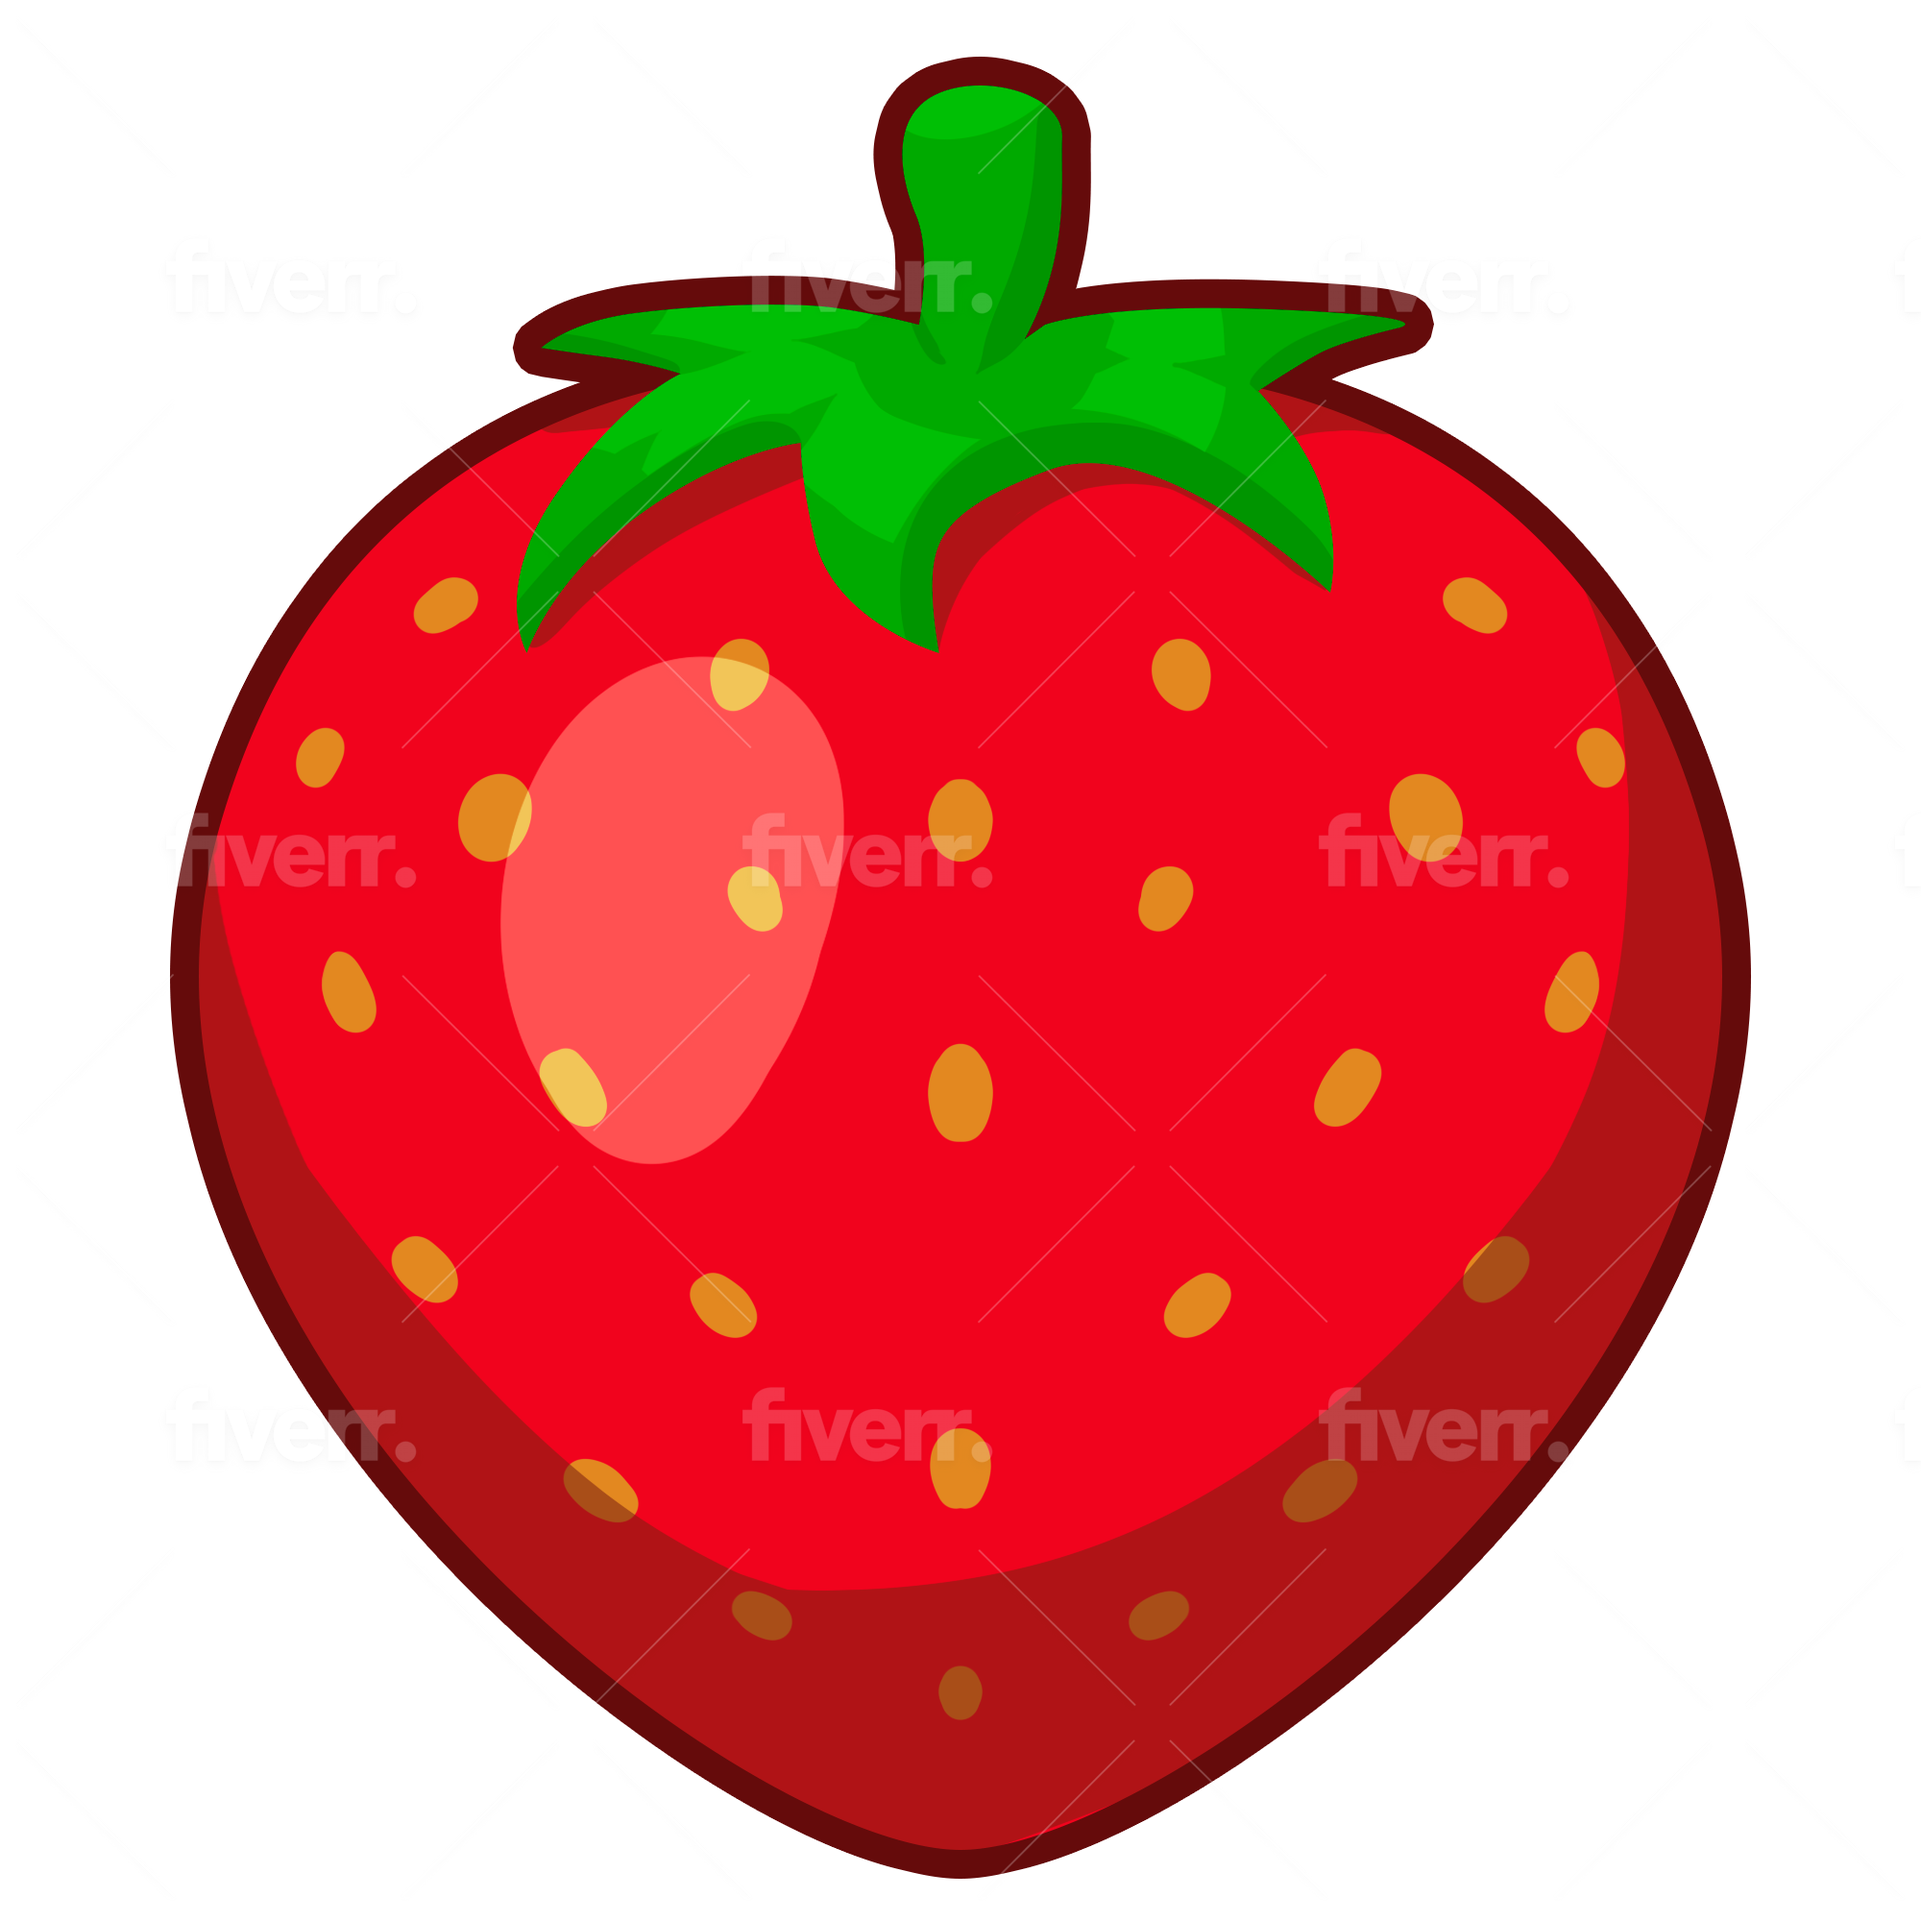
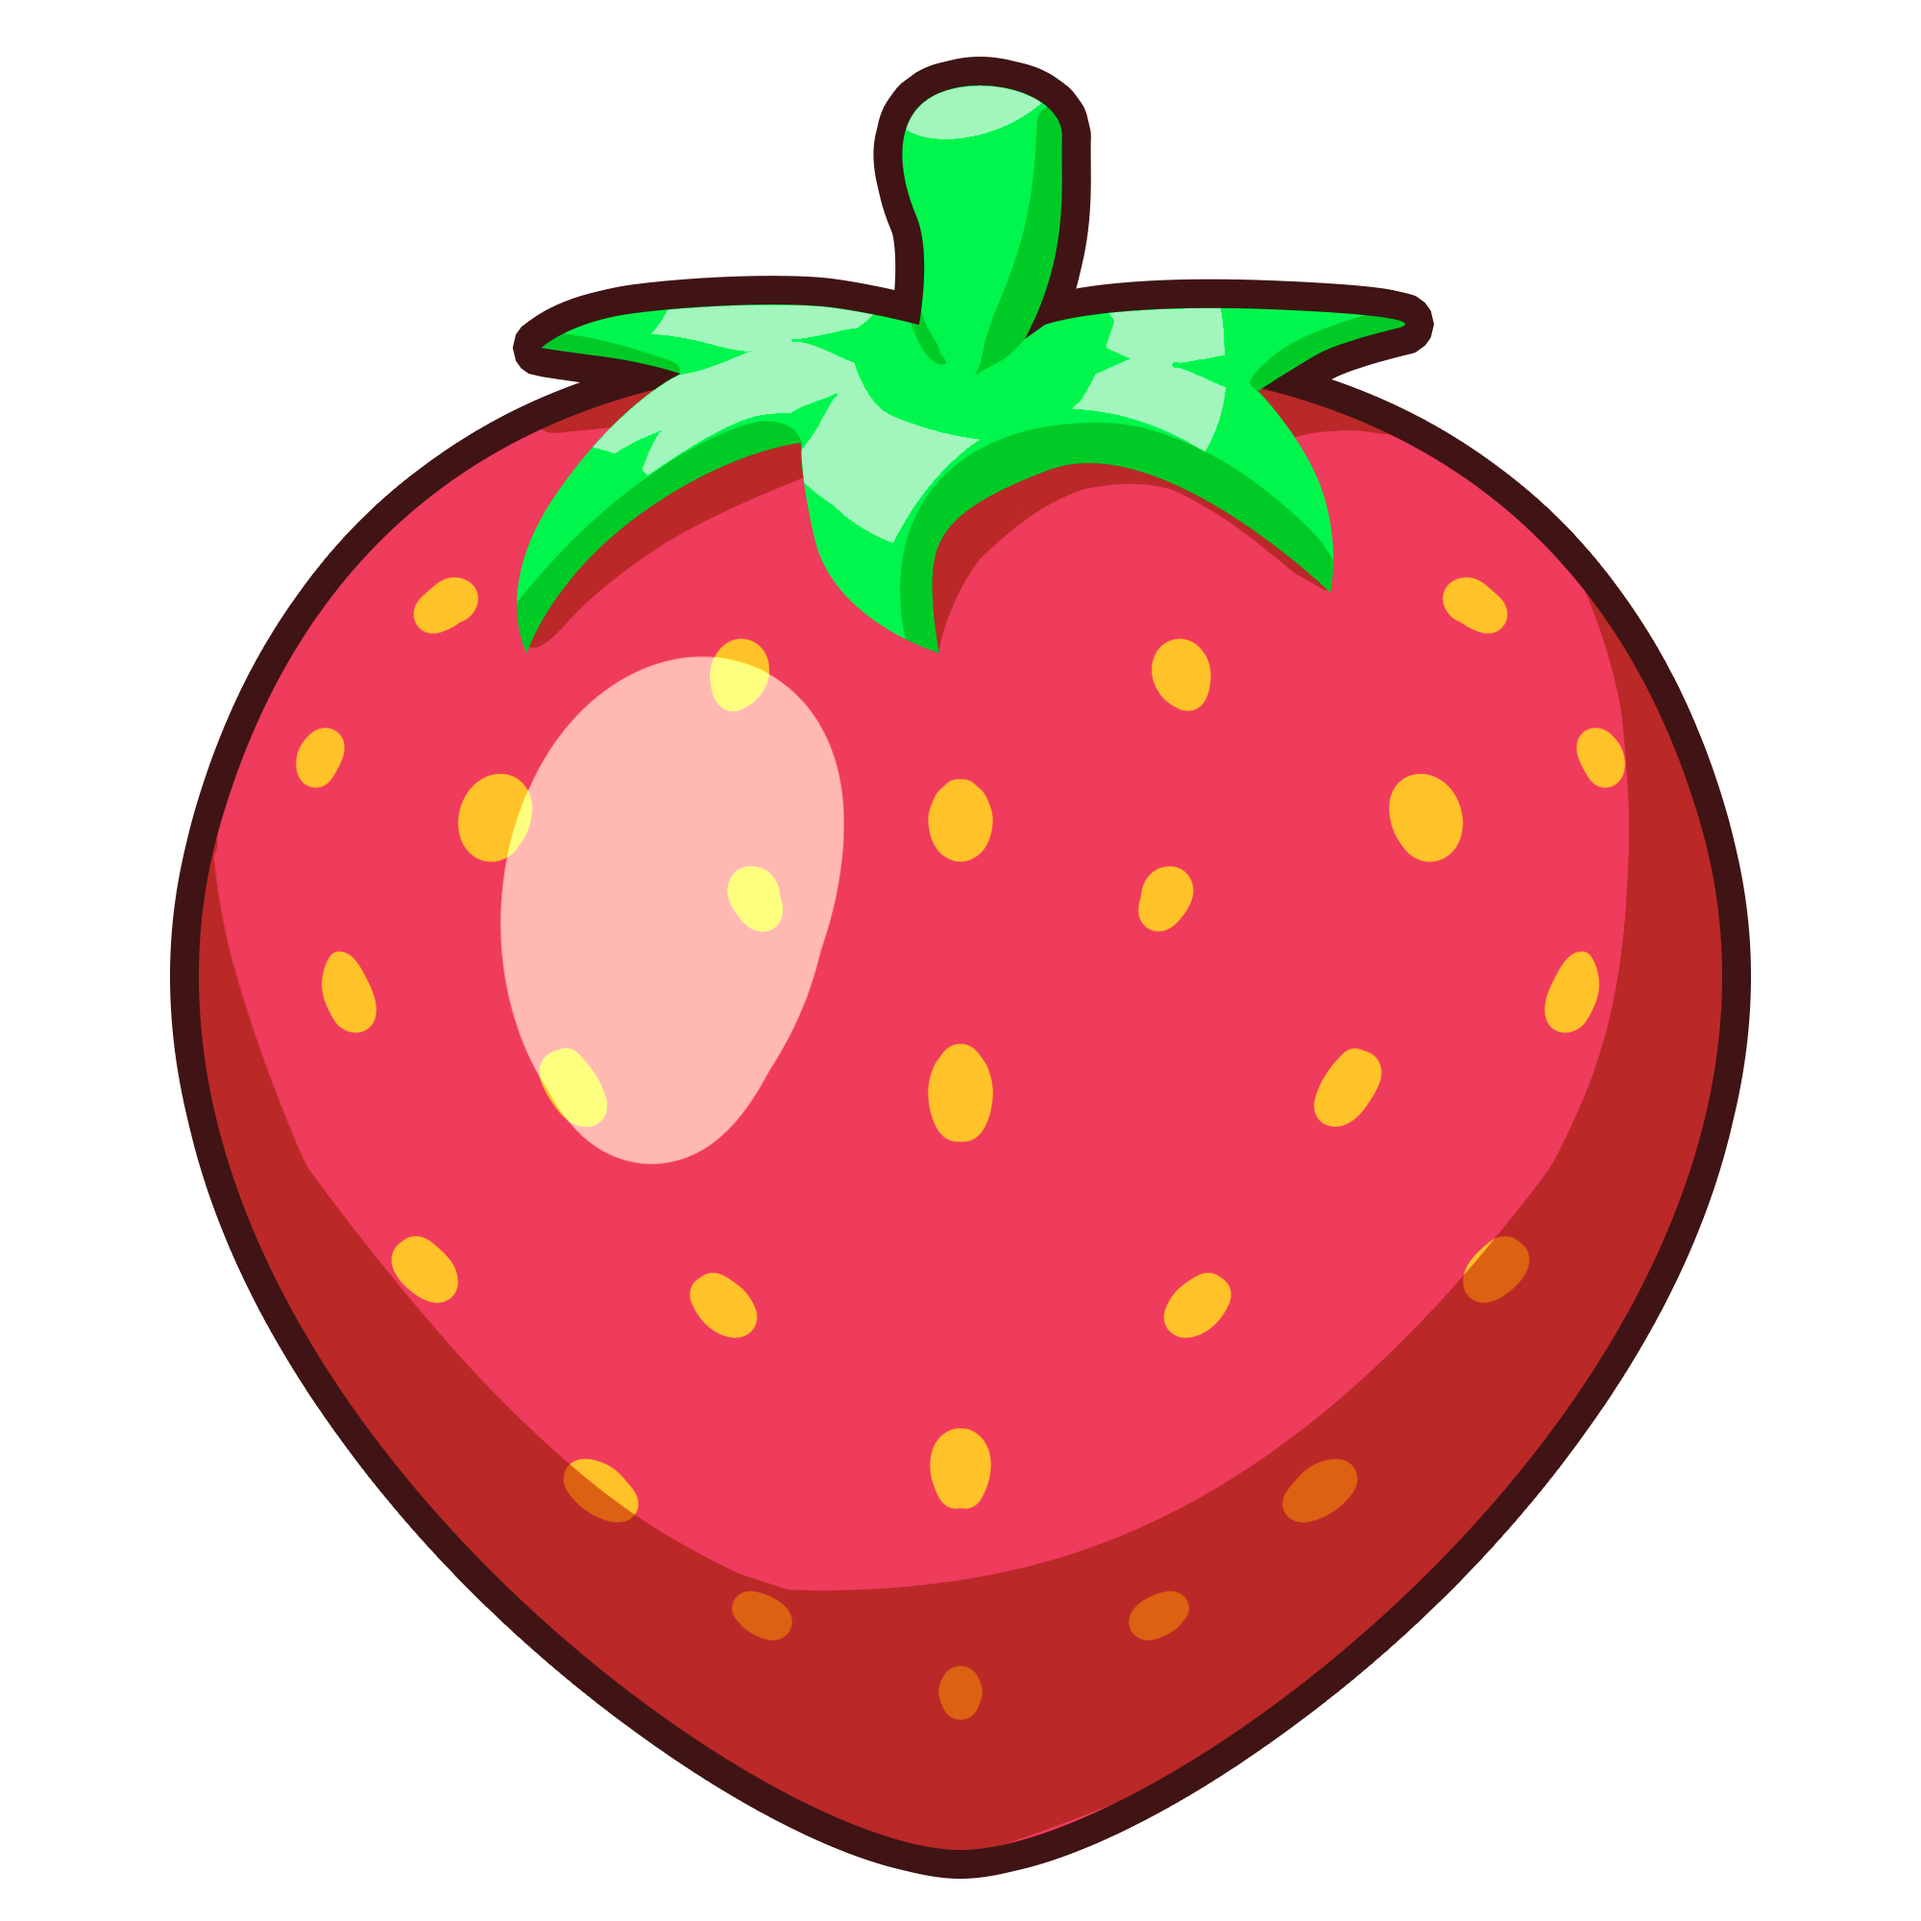
initial self-drawn sprites, refactoring, removed debug prints

diff --git a/lib/home_ui/home_page.dart b/lib/home_ui/home_page.dart
@@ -21,7 +21,7 @@ class HomePage extends StatefulWidget {
 class _HomePageState extends State<HomePage> {
   final ScrollController _controller = ScrollController();
   double _alpha = 0.0;
-  Set<int> _adventureData = {};
+  Set<String> _solvedBoards = {};
 
   @override
   void initState() {
@@ -39,7 +39,7 @@ class _HomePageState extends State<HomePage> {
   Future<void> _loadSharedPreferences() async {
     final prefs = await SharedPreferences.getInstance();
     setState(() {
-      _adventureData = Prefs.getAdventureData(prefs);
+      _solvedBoards = Prefs.getSolvedBoards(prefs);
     });
   }
 
@@ -124,8 +124,8 @@ class _HomePageState extends State<HomePage> {
 
   Widget getButton(Level level, ThemeData theme, FifteenAppState appState) {
     bool levelCompleted =
-        level.index != null && _adventureData.contains(level.index ?? -1);
-    bool levelLocked = isLevelLocked(level.index);
+        level.index != null && _solvedBoards.contains(level.board.uuid);
+    bool levelLocked = _isLevelLocked(level.index);
     return ElevatedButton(
       onPressed: levelLocked ? null : () => goToGame(level, appState),
       style: ElevatedButton.styleFrom(
@@ -170,17 +170,22 @@ class _HomePageState extends State<HomePage> {
     );
   }
 
-  bool isLevelLocked(int? index) {
+  bool _isLevelSolved(int? index) {
     if (index == null) return false;
-    if (_adventureData.contains(index)) {
-      return false; // never lock solved levels
-    }
-    if (index == 0 || index == 1 || index == 2) {
+    return _solvedBoards.contains(Level.adventure[index].board.uuid);
+  }
+
+  bool _isLevelLocked(int? index) {
+    if (index == null ||
+        _isLevelSolved(index) ||
+        index == 0 ||
+        index == 1 ||
+        index == 2) {
       return false; // initial levels
     }
-    return !_adventureData.contains(index - 3) &&
-        !_adventureData.contains(index - 2) &&
-        !_adventureData.contains(index - 1);
+    return !_isLevelSolved(index - 3) &&
+        !_isLevelSolved(index - 2) &&
+        !_isLevelSolved(index - 1);
   }
 
   void resetScroll() {}

diff --git a/lib/game_ui/game_page.dart b/lib/game_ui/game_page.dart
@@ -5,6 +5,7 @@ import 'dart:ui' as ui;
 import 'package:fifteen/builder_ui/builder_page.dart';
 import 'package:fifteen/game_ui/game_widget.dart';
 import 'package:fifteen/main.dart';
+import 'package:fifteen/math/board.dart';
 import 'package:fifteen/math/level.dart';
 import 'package:fifteen/settings_ui/settings_page.dart';
 import 'package:fifteen/shared_ui/banner_ad_widget.dart';
@@ -35,7 +36,7 @@ class _GamePageState extends State<GamePage> {
   ui.Image? image;
   bool previewing = false;
 
-  Set<int> _adventureData = {};
+  Set<String> _solvedBoards = {};
   bool _timerEnabled = Prefs.timerEnabledDefault;
 
   Timer? timer;
@@ -58,19 +59,19 @@ class _GamePageState extends State<GamePage> {
   Future<void> _loadSharedPreferences() async {
     final prefs = await SharedPreferences.getInstance();
     setState(() {
-      _adventureData = Prefs.getAdventureData(prefs);
+      _solvedBoards = Prefs.getSolvedBoards(prefs);
       _timerEnabled =
           prefs.getBool(Prefs.timerEnabledLabel) ?? Prefs.timerEnabledDefault;
     });
   }
 
-  Future<void> _saveLevelSolved(int? solvedLevelIndex) async {
-    if (solvedLevelIndex == null) return;
+  Future<void> _saveLevelSolved(Board? solvedBoard) async {
+    if (solvedBoard == null) return;
     final prefs = await SharedPreferences.getInstance();
     setState(() {
-      _adventureData = Prefs.setAdventureData(prefs, {
-        ..._adventureData,
-        solvedLevelIndex,
+      _solvedBoards = Prefs.setSolvedBoards(prefs, {
+        ..._solvedBoards,
+        solvedBoard.uuid,
       });
     });
   }
@@ -194,7 +195,7 @@ class _GamePageState extends State<GamePage> {
 
   void _checkForDialog() {
     if (widget.appState.game.isSolved()) {
-      _saveLevelSolved(widget.level.index);
+      _saveLevelSolved(widget.level.board);
       Interstitial.load();
       timer?.cancel();
       timer = null;

diff --git a/lib/shared_ui/prefs.dart b/lib/shared_ui/prefs.dart
@@ -12,21 +12,20 @@ class Prefs {
   static const String annoyingAdsLabel = 'annoying_ads';
   static const bool annoyingAdsDefault = false;
 
-  static const String adventureDataLabel = 'adventure_progress';
-  static const String adventureDataDefault = "[]";
-  static Set<int> getAdventureData(SharedPreferences prefs) {
-    String adventureData =
-        prefs.getString(adventureDataLabel) ?? adventureDataDefault;
-    List<int> adventureDataList = List<int>.from(jsonDecode(adventureData));
-    return adventureDataList.toSet();
+  static const String solvedBoardsLabel = 'adventure_progress';
+  static const String solvedBoardsDefault = "[]";
+  static Set<String> getSolvedBoards(SharedPreferences prefs) {
+    String solvedBoards =
+        prefs.getString(solvedBoardsLabel) ?? solvedBoardsDefault;
+    return List<String>.from(jsonDecode(solvedBoards)).toSet();
   }
 
-  static Set<int> setAdventureData(
+  static Set<String> setSolvedBoards(
     SharedPreferences prefs,
-    Set<int> newProgress,
+    Set<String> newSolvedBoards,
   ) {
-    String newAdventureData = jsonEncode(newProgress.toList());
-    prefs.setString(adventureDataLabel, newAdventureData);
-    return newProgress;
+    String solvedBoards = jsonEncode(newSolvedBoards.toList());
+    prefs.setString(solvedBoardsLabel, solvedBoards);
+    return newSolvedBoards;
   }
 }

diff --git a/lib/math/level.dart b/lib/math/level.dart
@@ -30,6 +30,8 @@ class Level {
       Level(
         board: _boardSequence[i],
         index: i,
+        background: i % 6,
+        image: _images[i % _images.length],
       )
   ];
   static final List<Level> allBoards = [
@@ -50,14 +52,24 @@ class Level {
   })  : image = image ?? randomImage(),
         background = background ?? randomBackground();
 
+  static final _images = [
+    // "assets/images/img1.png",
+    // "assets/images/img2.png",
+    // "assets/images/img3.png",
+    // "assets/images/img4.png",
+    "assets/images/fruit0.png",
+    "assets/images/fruit1.png",
+    "assets/images/fruit2.png",
+    "assets/images/fruit8.png",
+    "assets/images/fruit4.png",
+    // "assets/images/fruit5.png", // needs to be redone (ASAP)
+    // "assets/images/fruit6.png", // needs to be redone (ASAP)
+    "assets/images/fruit7.png",
+    "assets/images/fruit3.png",
+    // "assets/images/fruit9.png",
+  ];
   static String randomImage() {
-    const images = [
-      "assets/images/img1.png",
-      "assets/images/img2.png",
-      "assets/images/img3.png",
-      "assets/images/img4.png",
-    ];
-    return images[Random().nextInt(images.length)];
+    return _images[Random().nextInt(_images.length)];
   }
 
   static int randomBackground() {

diff --git a/lib/game_ui/game_widget.dart b/lib/game_ui/game_widget.dart
@@ -57,7 +57,6 @@ class GameWidget extends StatelessWidget {
     BuildContext context,
   ) {
     final size = context.size ?? Size(1.0, 1.0);
-    print("Size is $size");
 
     DoublePoint pos = DoublePoint.fromOffset(tapDetails.localPosition);
     pos = DoublePoint(pos.x / size.width, pos.y / size.height);

diff --git a/lib/settings_ui/settings_page.dart b/lib/settings_ui/settings_page.dart
@@ -172,7 +172,7 @@ class _SettingsPageState extends State<SettingsPage> {
 
   void deleteAdventure() async {
     SharedPreferences prefs = await SharedPreferences.getInstance();
-    Prefs.setAdventureData(prefs, {});
+    Prefs.setSolvedBoards(prefs, {});
   }
 
   void areYouSureDisableAdventure() {

diff --git a/lib/main.dart b/lib/main.dart
@@ -62,7 +62,6 @@ class FifteenAppState extends ChangeNotifier {
   List<double> adRolls = [for (int i = 0; i < 100; i++) Random().nextDouble()];
 
   void rerollAds() {
-    print("Rerolling Ads...");
     adRolls = [for (int i = 0; i < 100; i++) Random().nextDouble()];
     notifyListeners();
   }
